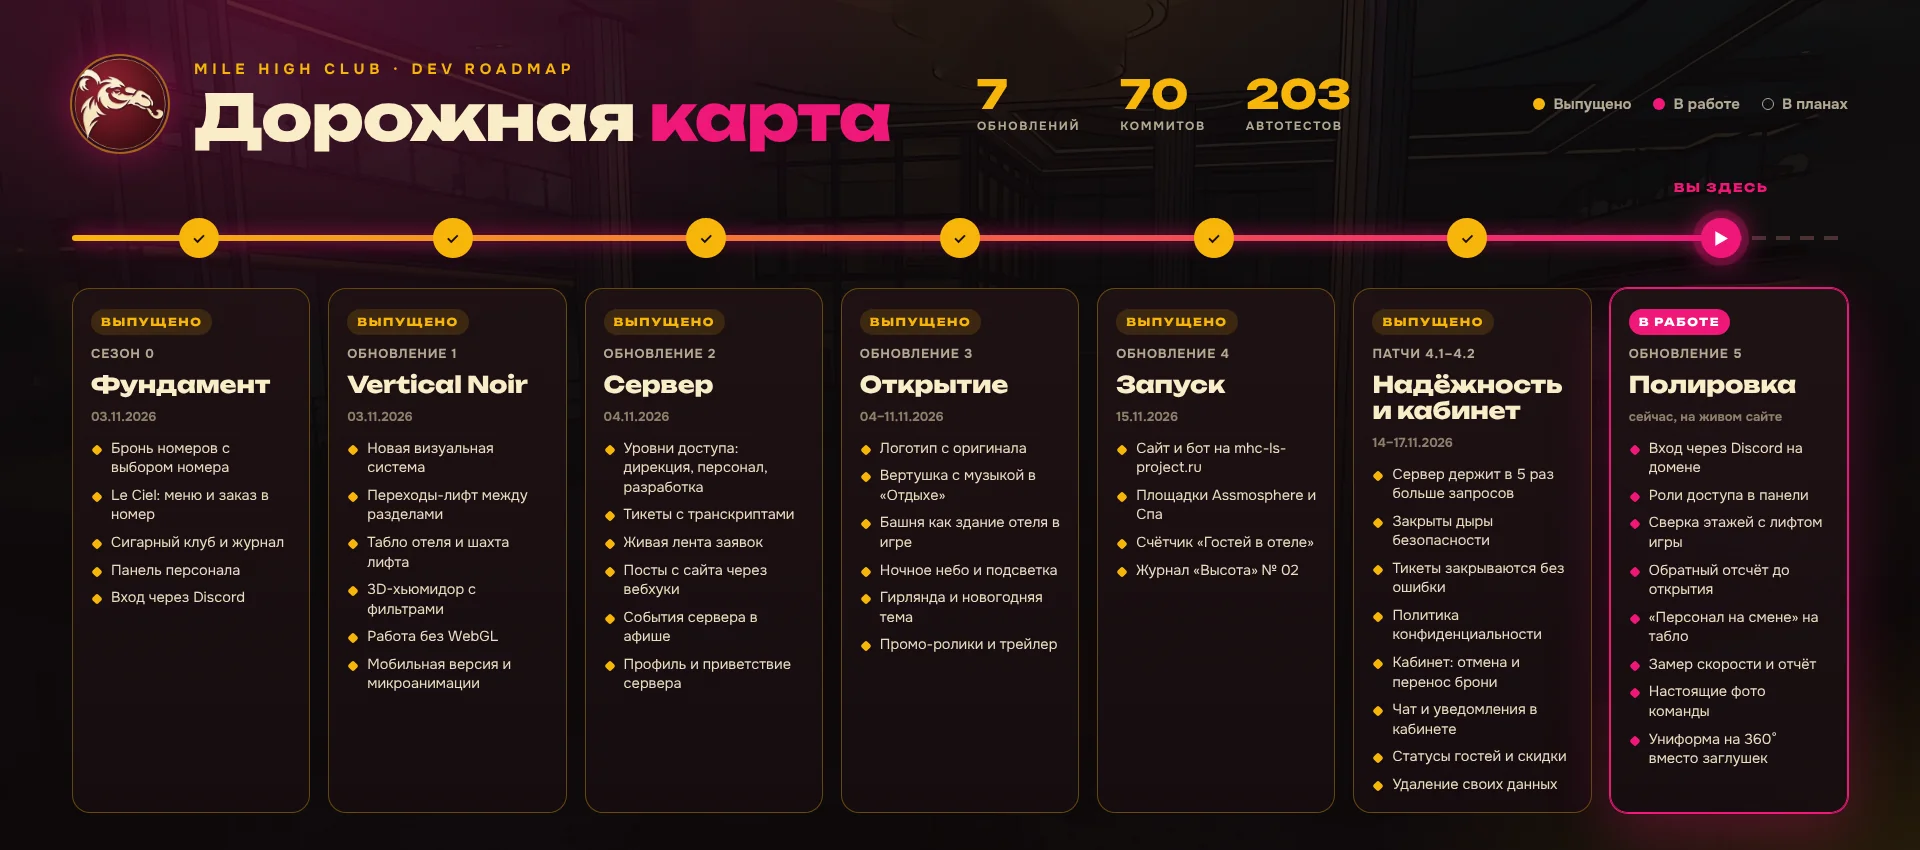
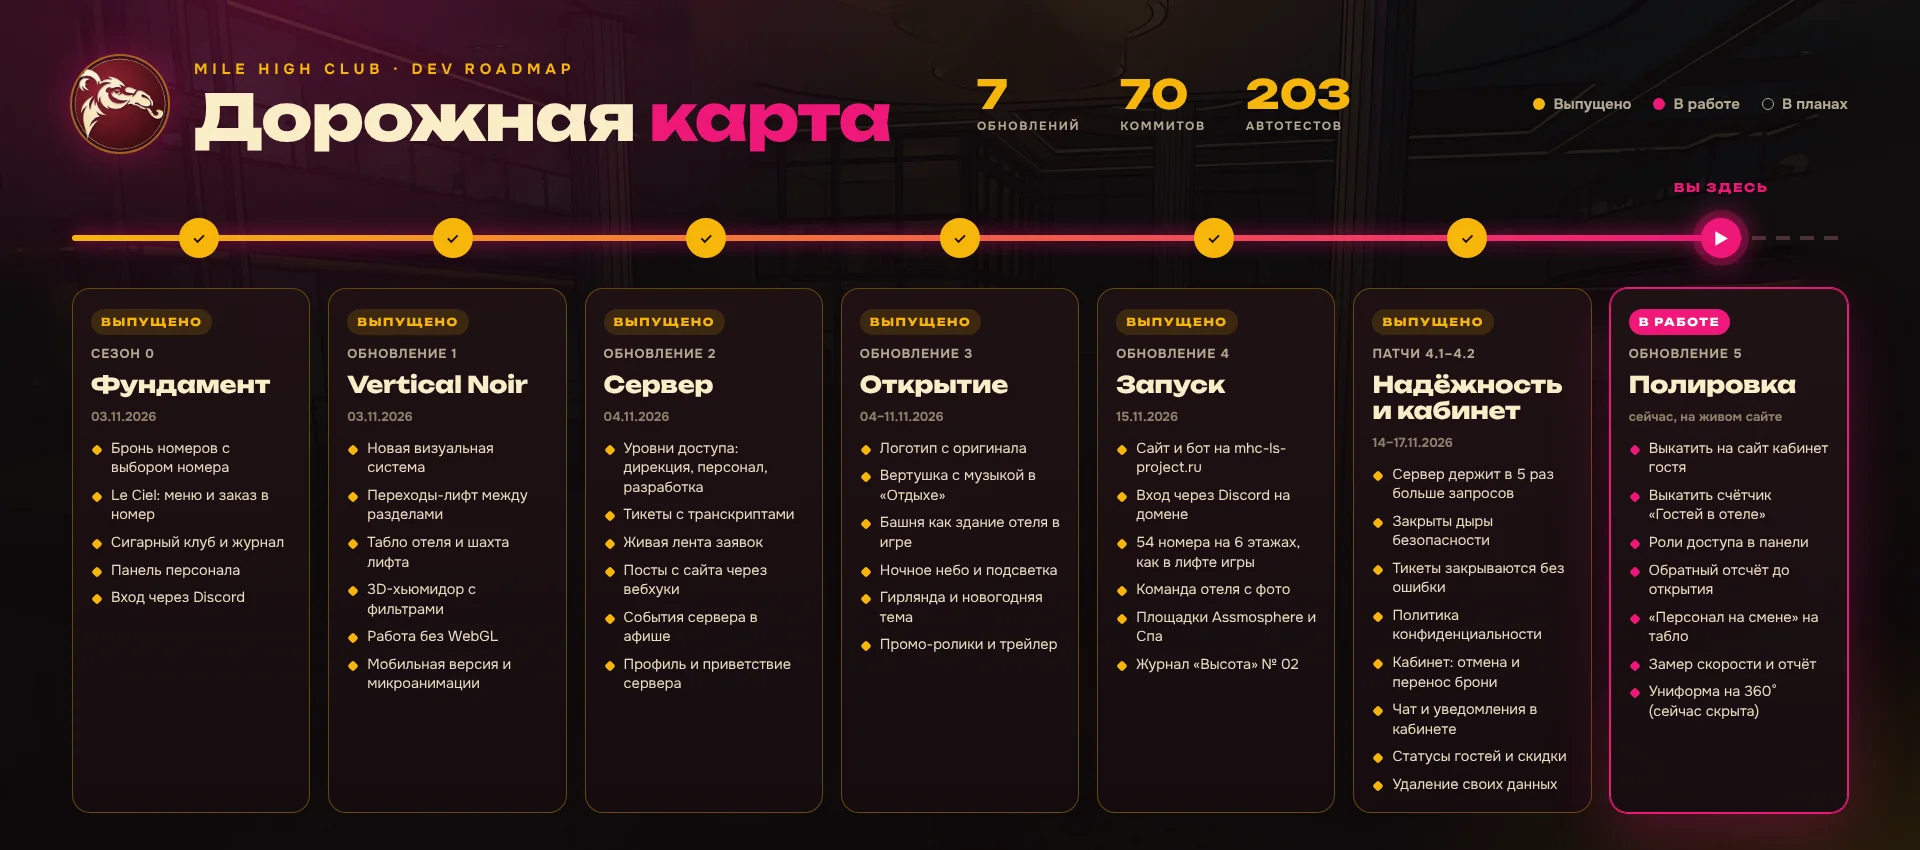
Дорожная карта и README по живому сайту: что сделано к запуску, что осталось выкатить

diff --git a/docs/roadmap/roadmap.html b/docs/roadmap/roadmap.html
@@ -77,12 +77,12 @@ li.ok::before{background:var(--gold)}
 <li>Логотип с оригинала</li><li>Вертушка с музыкой в «Отдыхе»</li><li>Башня как здание отеля в игре</li><li>Ночное небо и подсветка</li><li>Гирлянда и новогодняя тема</li><li>Промо-ролики и трейлер</li></ul></div>
 
 <div class="c done"><span class="tag">ВЫПУЩЕНО</span><div class="ver">ОБНОВЛЕНИЕ 4</div><h2>Запуск</h2><div class="date">15.11.2026</div><ul>
-<li>Сайт и бот на mhc-ls-project.ru</li><li>Площадки Assmosphere и Спа</li><li>Счётчик «Гостей в отеле»</li><li>Журнал «Высота» № 02</li></ul></div>
+<li>Сайт и бот на mhc-ls-project.ru</li><li>Вход через Discord на домене</li><li>54 номера на 6 этажах, как в лифте игры</li><li>Команда отеля с фото</li><li>Площадки Assmosphere и Спа</li><li>Журнал «Высота» № 02</li></ul></div>
 
 <div class="c done"><span class="tag">ВЫПУЩЕНО</span><div class="ver">ПАТЧИ 4.1–4.2</div><h2>Надёжность и кабинет</h2><div class="date">14–17.11.2026</div><ul>
 <li>Сервер держит в 5 раз больше запросов</li><li>Закрыты дыры безопасности</li><li>Тикеты закрываются без ошибки</li><li>Политика конфиденциальности</li><li>Кабинет: отмена и перенос брони</li><li>Чат и уведомления в кабинете</li><li>Статусы гостей и скидки</li><li>Удаление своих данных</li></ul></div>
 
 <div class="c now"><span class="tag">В РАБОТЕ</span><div class="ver">ОБНОВЛЕНИЕ 5</div><h2>Полировка</h2><div class="date">сейчас, на живом сайте</div><ul>
-<li>Вход через Discord на домене</li><li>Роли доступа в панели</li><li>Сверка этажей с лифтом игры</li><li>Обратный отсчёт до открытия</li><li>«Персонал на смене» на табло</li><li>Замер скорости и отчёт</li><li>Настоящие фото команды</li><li>Униформа на 360° вместо заглушек</li></ul></div>
+<li>Выкатить на сайт кабинет гостя</li><li>Выкатить счётчик «Гостей в отеле»</li><li>Роли доступа в панели</li><li>Обратный отсчёт до открытия</li><li>«Персонал на смене» на табло</li><li>Замер скорости и отчёт</li><li>Униформа на 360° (сейчас скрыта)</li></ul></div>
 </div></div>
 <div class="foot"><span>Сайт отеля и Discord-бот · Node.js, three.js, discord.js</span><span>Обновлено 17.11.2026</span></div>

diff --git a/README.md b/README.md
@@ -35,9 +35,11 @@
 | | |
 |---|---|
 | 🏙 **40 этажей** | башня над Лос-Сантосом |
-| 🛏 **36 номеров** | от Стандарта до Пентхауса, статус каждого виден на фасаде |
+| 🛏 **54 номера** | на 6 этажах (20–25): Стандарт, Делюкс, Джуниор-сюит. Статус каждого виден на фасаде |
 | 🍽 **30 этаж** | ресторан Le Ciel |
 | 🚬 **31 этаж** | сигарный клуб с 3D-хьюмидором |
+| 🌙 **33 этаж** | ночной клуб Assmosphere |
+| 🧖 **35 этаж** | спа, скоро открытие |
 | 🏊 **38 и 40 этажи** | бассейны |
 | 🗝 **17 секретов** | скрытые достижения на сайте. Найдёте все? |
 | ✅ **203 автотеста** | проверяют сайт, сервер и бота перед каждым обновлением |
@@ -47,15 +49,14 @@
 ![Дорожная карта](docs/img/roadmap.webp)
 
 ### 🛠 Сейчас в работе · Обновление 5 «Полировка»
-Сайт и бот уже работают на `mhc-ls-project.ru`, сейчас доводим живой сайт.
-- [ ] Вход через Discord на домене `mhc-ls-project.ru`
+Сайт и бот работают на `mhc-ls-project.ru` с 15.11.2026, сейчас доводим живой сайт.
+- [ ] Выкатить на сайт кабинет гостя (патч 4.2 готов в коде)
+- [ ] Выкатить счётчик «Гостей в отеле» (готов в коде)
 - [ ] Роли доступа в панели: «Доступ и анонсы»
-- [ ] Сверка этажей: на сайте 7 этажей номеров, в лифте игры 6
 - [ ] Обратный отсчёт до открытия отеля на главной (нужна дата)
 - [ ] «Персонал на смене» на табло: сколько сотрудников сейчас в сети (нужен интент присутствия у бота)
 - [ ] Замер скорости загрузки и отчёт
-- [ ] Настоящие фото команды в анкетах
-- [ ] Фото униформы на 360° вместо заглушек
+- [ ] Униформа на 360° вместо заглушек (сейчас раздел скрыт в настройках)
 
 ### 🔭 Дальше
 - [ ] LifeX: вход через LifeX, лента отеля на сайте, публикация из панели (ждём документацию API)
@@ -83,9 +84,11 @@
 - [x] Политика конфиденциальности, предпросмотр постов в стиле Discord
 
 #### Обновление 4 · Запуск — 15.11.2026
-- [x] Сайт и бот на сервере, домен `mhc-ls-project.ru`
-- [x] Площадки Assmosphere и Спа (Спа — «скоро открытие»)
-- [x] Счётчик «Гостей в отеле»: онлайн сервера на табло главной и в шапке
+- [x] Сайт и бот на сервере, домен `mhc-ls-project.ru`, вход через Discord на домене
+- [x] 54 номера на 6 этажах (20–25), как в лифте игры: Стандарт, Делюкс, Джуниор-сюит
+- [x] Команда отеля с настоящими фото и анкетами
+- [x] Площадки Assmosphere и Спа (Спа и Le Ciel — «скоро открытие»), расписания площадок
+- [x] Меню Le Ciel, сигарный клуб, три пакета отеля, частые вопросы
 - [x] Журнал «Высота» № 02 — спецвыпуск к открытию
 
 #### Обновление 3 · Открытие — 04–11.11.2026

diff --git a/CHANGELOG.md b/CHANGELOG.md
@@ -87,11 +87,10 @@ npm ci --omit=dev --ignore-scripts
 
 ## Что осталось
 
-Сайт и бот запущены на `mhc-ls-project.ru` (15.11.2026), площадки Assmosphere и Спа заполнены. Осталось на живом сайте:
+Сайт и бот запущены на `mhc-ls-project.ru` 15.11.2026: вход через Discord на домене, 54 номера на 6 этажах как в лифте игры, команда с фото, площадки, меню, сигары, пакеты, журнал «Высота» № 02. Осталось:
 
-- Заменить `PUBLIC_URL` и `DISCORD_REDIRECT_URI`, добавить новый адрес в Redirects портала Discord.
+- Выкатить на сервер версию с кабинетом гостя и счётчиком «Гостей в отеле» (сейчас на сайте версия от 14.11).
 - Отметить роли в панели: Доступ и анонсы.
-- На сайте 7 этажей номеров, а в лифте игры 6. Сейчас этаж 26 подписан как Rooms Floor 6.
 
 ## Исправления по Discord
 - «hooks.resolveRole is not a function» при «Закрыть обращение»: если бот подключался, но не мог открыть сервер, сайт считал его выключенным и убирал его функции, а клиент продолжал принимать кнопки. Теперь такой клиент закрывается целиком, необязательные шаги после подключения не выключают бота, а кнопки берут функции напрямую.
